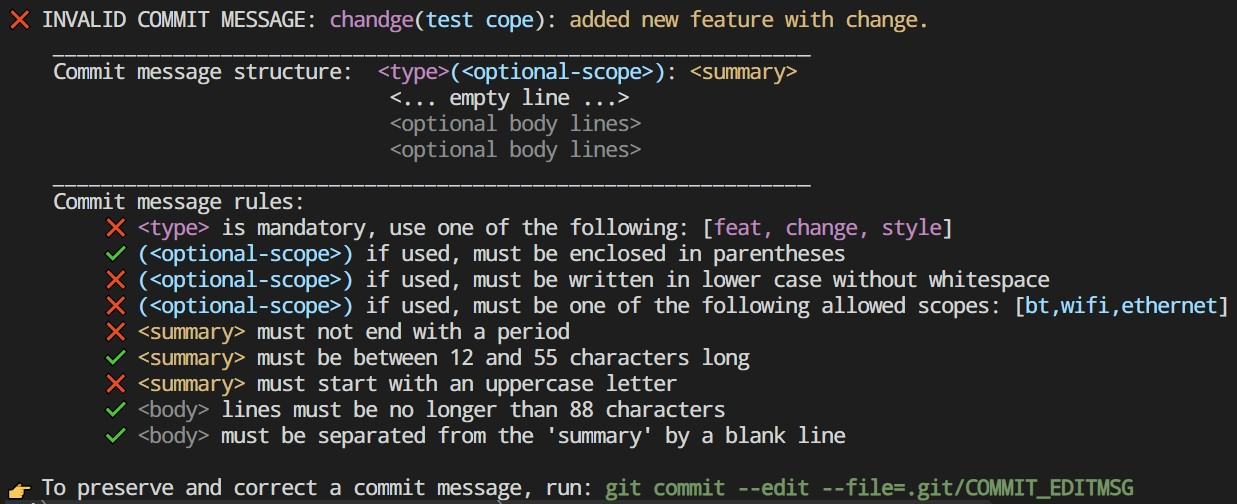
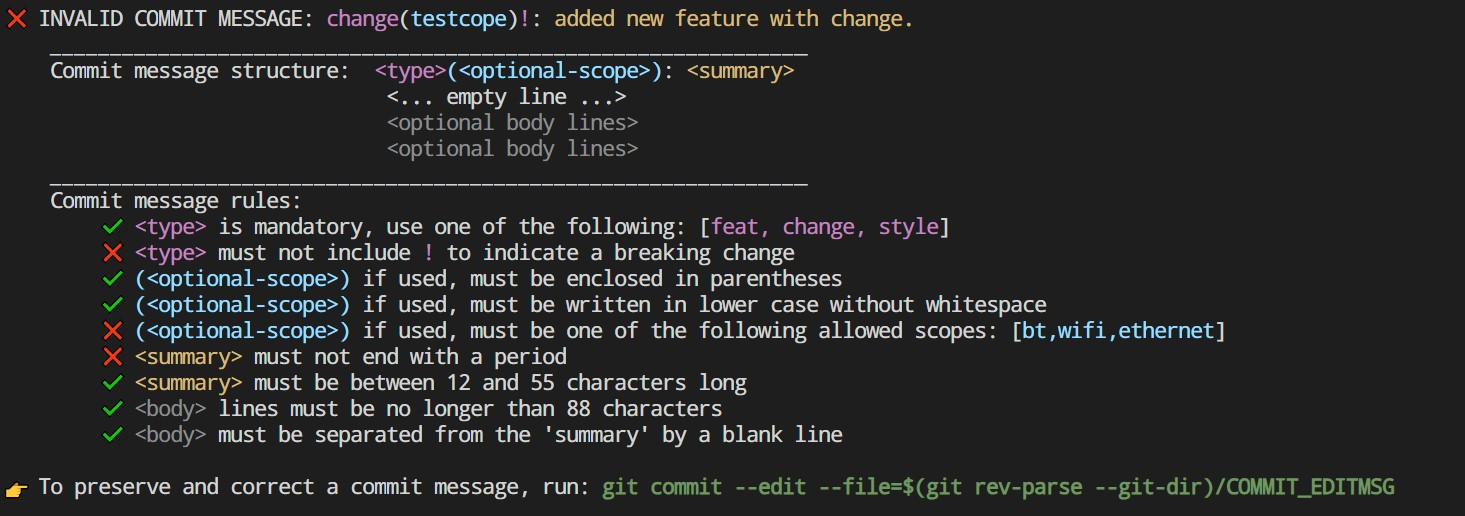
change: update output message for help command (works with "git worktree")
- docs: updated README file - usage, tip for git alias

diff --git a/conventional_precommit_linter/hook.py b/conventional_precommit_linter/hook.py
@@ -208,7 +208,7 @@ def print_report(commit_type: str, commit_scope: Optional[str], commit_summary: 
     """
     print(full_guide_message)
     print(
-        f'👉 To preserve and correct a commit message, run: {_color_bold_green("git commit --edit --file=.git/COMMIT_EDITMSG")}'
+        f'👉 To preserve and correct a commit message, run: {_color_bold_green("git commit --edit --file=$(git rev-parse --git-dir)/COMMIT_EDITMSG")}\n'
     )
 
 
@@ -247,7 +247,7 @@ def main(argv: Optional[List[str]] = None) -> int:
     if not check_colon_after_type(message_title):
         print(f'❌ Missing colon after {_color_purple("<type>")} or {_color_blue("(<optional-scope>)")}.')
         print(
-            f'\nEnsure the commit message has the format \"{_color_purple("<type>")}{_color_blue("(<optional-scope>)")}: {_color_orange("<summary>")}\"'
+            f'\nEnsure the commit message has the format "{_color_purple("<type>")}{_color_blue("(<optional-scope>)")}: {_color_orange("<summary>")}"'
         )
         return 1
 

diff --git a/tests/test_custom_args.py b/tests/test_custom_args.py
@@ -57,7 +57,7 @@ def commit_message_id(commit_message):  # pylint: disable=redefined-outer-name
         ),
         (
             # Expected PASS: Message without scope, with body
-            'change: This is commit message without scope with body\n\nThis is a text of body\n# Please enter the commit message for your changes. Lines starting\n# with \'#\' will be ignored, and an empty message aborts the commit.\n#',
+            "change: This is commit message without scope with body\n\nThis is a text of body\n# Please enter the commit message for your changes. Lines starting\n# with '#' will be ignored, and an empty message aborts the commit.\n#",
             {},
         ),
         (

diff --git a/tests/test_default_args.py b/tests/test_default_args.py
@@ -56,7 +56,7 @@ def commit_message_id(commit_message):  # pylint: disable=redefined-outer-name
         ),
         (
             # Expected PASS: Message without scope, with body
-            'change: This is commit message without scope with body\n\nThis is a text of body\n# Please enter the commit message for your changes. Lines starting\n# with \'#\' will be ignored, and an empty message aborts the commit.\n#',
+            "change: This is commit message without scope with body\n\nThis is a text of body\n# Please enter the commit message for your changes. Lines starting\n# with '#' will be ignored, and an empty message aborts the commit.\n#",
             {},
         ),
         (

diff --git a/README.md b/README.md
@@ -10,25 +10,27 @@
 The Conventional Precommit Linter is a tool designed to ensure commit messages follow the Conventional Commits standard, enhancing the readability and traceability of your project's history.
 <hr>
 
-
-## Table of Contents
-
-- [Table of Contents](#table-of-contents)
-- [Getting Started](#getting-started)
+- [Usage](#usage)
   - [Commit Message Structure](#commit-message-structure)
-  - [Installation](#installation)
+- [Setup](#setup)
   - [Install Commit-msg Hooks](#install-commit-msg-hooks)
-- [Configuration](#configuration)
+  - [Configuration](#configuration)
 - [Project issues](#project-issues)
 - [Contributing](#contributing)
 - [Credits](#credits)
 
 ---
 
-## Getting Started
+## Usage
+
+The _conventional-precommit-linter hook_ runs every time you execute the `git commit` command (when you want to commit your changes). Since this hook operates in the `commit-msg` stage, simply running a pre-commit check without actually committing (using `pre-commit run`), will have no effect, and this hook will be ignored.
+
+The same applies to running pre-commit hooks in CI (Continuous Integration) job environments - **this hook is simply skipped when you run pre-commit checks in your CI system**.
 
 ### Commit Message Structure
+
 Commit messages are validated against the following format:
+
 ```
 <type>(<optional-scope>): <summary>
   < ... empty line ... >
@@ -36,15 +38,35 @@ Commit messages are validated against the following format:
 <optional body lines>
 <optional body lines>
 ```
+
 Each component is checked for compliance with the provided or default configuration.
 
-**Example output for failed message:**
+If your commit message does not meet the required format, the hook will fail, producing a **report that shows which part of your commit message needs correction**:
+
 <img src="docs/example-output-default-args.jpg" width="800">
 
-**Example output for failed message (with custom arguments):**
-<img src="docs/example-output-custom-args.jpg" width="710">
+For a custom configuration, the report might look like this:
+<img src="docs/example-output-custom-args.jpg" width="800">
 
-### Installation
+The hint message suggests that you can preserve your original message and simply edit it in your default editor, without the need to type the whole message again.
+
+To edit failed message, run the command (as the hint suggests):
+
+```sh
+git commit --edit --file=$(git rev-parse --git-dir)/COMMIT_EDITMSG
+```
+
+Since this command is quite complex and you may use this functionality often, **creating a Git alias might be a good idea**:
+
+```sh
+git config --global alias.again '!git commit --edit --file=$(git rev-parse --git-dir)/COMMIT_EDITMSG'
+```
+
+This command adds a `git again` alias to your machine's Git configuration. You can run then simply `git again` whenever your commit message check fails.
+
+---
+
+## Setup
 
 To integrate the **Conventional Precommit Linter** into your project, add to your `.pre-commit-config.yaml`:
 
@@ -52,14 +74,16 @@ To integrate the **Conventional Precommit Linter** into your project, add to you
 # FILE: .pre-commit-config.yaml
 repos:
   - repo: https://github.com/espressif/conventional-precommit-linter
-    rev: v1.3.0  # The version tag you wish to use
+    rev: v1.7.0 # The version tag you wish to use
     hooks:
       - id: conventional-precommit-linter
         stages: [commit-msg]
 ```
 
 ### Install Commit-msg Hooks
+
 **IMPORTANT:** `commit-msg` hooks require a specific installation command:
+
 ```sh
 pre-commit install -t pre-commit -t commit-msg
 ```
@@ -67,20 +91,22 @@ pre-commit install -t pre-commit -t commit-msg
 **Note:** The `pre-commit install` command by default sets up only the `pre-commit` stage hooks. The additional flag `-t commit-msg` is necessary to set up `commit-msg` stage hooks.
 
 For a simplified setup (just with `pre-commit install` without flags), ensure your `.pre-commit-config.yaml` contains the following:
+
 ```yaml
 # FILE: .pre-commit-config.yaml
 ---
 minimum_pre_commit_version: 3.3.0
-default_install_hook_types: [pre-commit,commit-msg]
-...
+default_install_hook_types: [pre-commit, commit-msg]
 ```
+
 After modifying `.pre-commit-config.yaml`, re-run the installation command (`pre-commit install`) for changes to take effect.
 
----
+-
 
-## Configuration
+### Configuration
 
 The linter accepts several configurable parameters to tailor commit message validation:
+
 - `--types`: Define the types of commits allowed (default: [`change`, `ci`, `docs`, `feat`, `fix`, `refactor`, `remove`, `revert`, `test`]).
 - `--scopes`: Specifies a list of allowed scopes. If not defined, all scopes are allowed (restriction is `disabled`).
 - `--subject-min-length`: Set the minimum length for the summary (default: `20`).
@@ -90,16 +116,17 @@ The linter accepts several configurable parameters to tailor commit message vali
 - `--allow-breaking`: Allow exclamation mark in the commit type (default: `false`).
 
 The **custom configuration** can be specified in `.pre-commit-config.yaml` like this:
+
 ```yaml
 # FILE: .pre-commit-config.yaml
-...
+---
 - repo: https://github.com/espressif/conventional-precommit-linter
-  rev: v1.3.0  # The version tag you wish to use
+  rev: v1.7.0 # The version tag you wish to use
   hooks:
     - id: conventional-precommit-linter
       stages: [commit-msg]
       args:
-        - --types=change,ci,docs,feat,fix,refactor,remove,revert,fox
+        - --types=build,ci,docs,feat,fix,perf,refactor,style,test # default Angular / @commitlint-conventional types
         - --scopes=bt,wifi,ethernet
         - --subject-min-length=10
 ```
@@ -119,4 +146,5 @@ If you encounter any issues, feel free to report them in the [project's issues](
 ---
 
 ## Credits
+
 Inspired by project: https://github.com/compilerla/conventional-pre-commit
